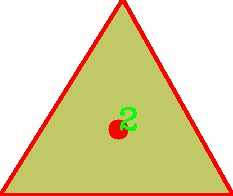
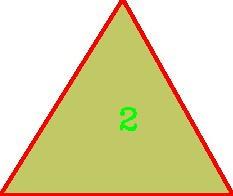
more practice with contours and extraction

Changed region(s): [[0.4506, 0.5816, 0.5708, 0.7347]]

diff --git a/04-Image-segmentation/030-sorting_contour_left_right.py b/04-Image-segmentation/030-sorting_contour_left_right.py
@@ -3,13 +3,20 @@ import numpy as np
 
 
 #Funcs for sorting by position
+
+"""
+Image moments help you to calculate some features like center of mass of the object, area of the object etc
+From this moments, you can extract useful data like area, centroid etc.
+Centroid is given by the relations, Cx=M10/M00 and Cy=M01/M00.
+"""
+
 def x_cord_contour(contours):
     #return the x coordinate for the contour centroid
     if cv2.contourArea(contours) > 10:
         M = cv2.moments(contours)
         return (int(M['m10']/M['m00']))
 
-def label_contour_center(image, c, i):
+def label_contour_center(image, c):
     #Places a red circle on the centers of contours
     M = cv2.moments(c)
     cx = int(M['m10'] / M['m00'])
@@ -27,7 +34,7 @@ image = cv2.imread(source_input)
 blank_image = np.zeros((image.shape[0], image.shape[1], 3))
 
 #Create a copy of our original image
-original_image = image
+original_image = image.copy()
 
 #greyscale our image
 grey = cv2.cvtColor(image, cv2.COLOR_BGR2GRAY)
@@ -42,7 +49,7 @@ _, contours, hierachy = cv2.findContours(edged.copy(), cv2.RETR_EXTERNAL, cv2.CH
 
 #Compute Center of Mass or centroids and draw them on image
 for (i, c) in enumerate(contours):
-    orig = label_contour_center(image, c, i)
+    orig = label_contour_center(image, c)
 
 cv2.imshow("Contour Center", image)
 cv2.waitKey(0)
@@ -59,6 +66,7 @@ for (i, c) in enumerate(contours_left_to_right):
     cv2.putText(original_image, str(i+1), (cx, cy), cv2.FONT_HERSHEY_COMPLEX, 1, (0,255,0), 2)
     cv2.imshow('Left to Right Contour', original_image)
     cv2.waitKey(0)
+    #crop contour. Extract 4 points (starting points x, y) and (w, h) boundaries
     (x, y, w, h) = cv2.boundingRect(c)
 
     #Crop each contour and save these images

diff --git a/04-Image-segmentation/030-sorting_contours.py b/04-Image-segmentation/030-sorting_contours.py
@@ -20,7 +20,7 @@ cv2.waitKey(0)
 blank_image = np.zeros((image.shape[0], image.shape[1], 3))
 
 #Create a copy of our original image
-original_image = image
+original_image = image.copy()
 
 #greyscale our image
 grey = cv2.cvtColor(image, cv2.COLOR_BGR2GRAY)
